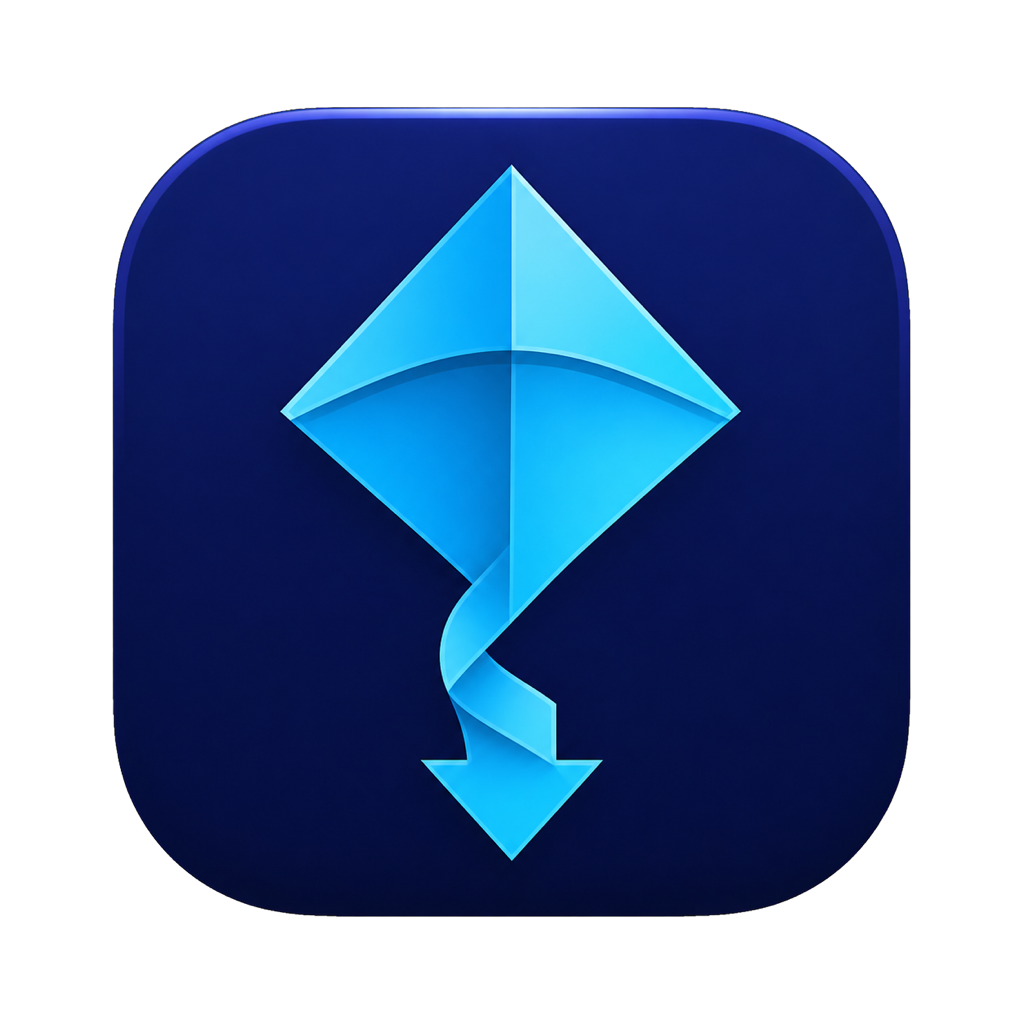
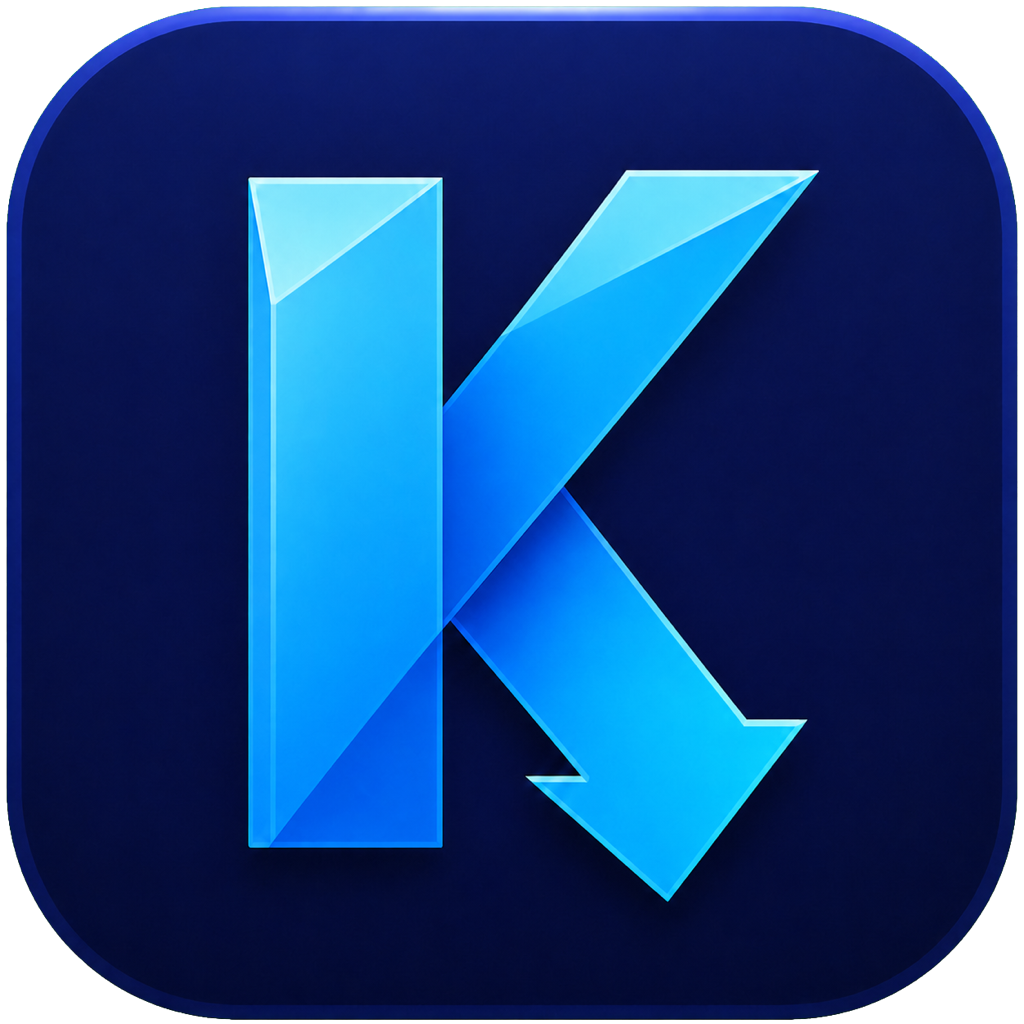
feat: show branded download status in menu bar

diff --git a/Tests/KiteTests/ActiveDownloadSummaryTests.swift b/Tests/KiteTests/ActiveDownloadSummaryTests.swift
@@ -1,0 +1,58 @@
+import Foundation
+import Testing
+@testable import Kite
+
+@Suite("Active download summary")
+struct ActiveDownloadSummaryTests {
+    @Test("Progress is byte-weighted and speed is summed")
+    func summarizesKnownActiveDownloads() {
+        let summary = ActiveDownloadSummary(tasks: [
+            task(id: "small", status: .active, completed: 50, total: 100, speed: 20),
+            task(id: "large", status: .active, completed: 250, total: 900, speed: 30),
+            task(id: "paused", status: .paused, completed: 100, total: 100, speed: 99),
+        ])
+
+        #expect(summary.activeCount == 2)
+        #expect(summary.progress == 0.3)
+        #expect(summary.downloadSpeed == 50)
+    }
+
+    @Test("Unknown task length does not present a misleading percentage")
+    func handlesUnknownLength() {
+        let summary = ActiveDownloadSummary(tasks: [
+            task(id: "known", status: .active, completed: 50, total: 100, speed: 20),
+            task(id: "metadata", status: .active, completed: 0, total: 0, speed: 10),
+        ])
+
+        #expect(summary.activeCount == 2)
+        #expect(summary.progress == nil)
+        #expect(summary.downloadSpeed == 30)
+    }
+
+    @Test("Idle summary has no progress or speed")
+    func handlesIdleState() {
+        let summary = ActiveDownloadSummary(tasks: [])
+
+        #expect(summary.activeCount == 0)
+        #expect(summary.progress == nil)
+        #expect(summary.downloadSpeed == 0)
+    }
+
+    private func task(
+        id: String,
+        status: DownloadStatus,
+        completed: Int64,
+        total: Int64,
+        speed: Int64
+    ) -> DownloadTask {
+        DownloadTask.media(
+            gid: id,
+            status: status,
+            sourceURL: "https://example.com/\(id)",
+            outputPath: "/tmp/\(id)",
+            completedLength: completed,
+            totalLength: total,
+            downloadSpeed: speed
+        )
+    }
+}

diff --git a/Sources/Kite/App/KiteApp.swift b/Sources/Kite/App/KiteApp.swift
@@ -141,12 +141,18 @@ struct KiteApp: App {
         MenuBarExtra {
             MenuBarView(store: downloadStore)
         } label: {
-            Label(
-                downloadStore.displayedActiveTasks.isEmpty ? "Kite" : "↓ \(Formatters.speed(downloadStore.globalStat.downloadSpeed))",
-                systemImage: "arrow.down.circle"
-            )
-            .symbolRenderingMode(.monochrome)
+            let summary = downloadStore.activeDownloadSummary
+            HStack(alignment: .center, spacing: 4) {
+                KiteMenuBarMark()
+                if summary.activeCount == 0 {
+                    Text("Kite")
+                } else {
+                    Text("\(summary.progress.map(Formatters.percent) ?? "—") · \(Formatters.speed(summary.downloadSpeed))")
+                        .monospacedDigit()
+                }
+            }
             .foregroundStyle(.primary)
+            .accessibilityLabel(menuBarAccessibilityLabel(for: summary))
         }
         .menuBarExtraStyle(.menu)
     }
@@ -160,5 +166,11 @@ struct KiteApp: App {
         for url in panel.urls {
             Task { await downloadStore.addTorrent(at: url) }
         }
+    }
+
+    private func menuBarAccessibilityLabel(for summary: ActiveDownloadSummary) -> String {
+        guard summary.activeCount > 0 else { return "Kite, no active downloads" }
+        let progress = summary.progress.map(Formatters.percent) ?? "unknown progress"
+        return "Kite, download progress \(progress), download speed \(Formatters.speed(summary.downloadSpeed))"
     }
 }

diff --git a/Sources/Kite/Views/KiteMenuBarMark.swift b/Sources/Kite/Views/KiteMenuBarMark.swift
@@ -1,0 +1,44 @@
+import SwiftUI
+
+struct KiteMenuBarMark: View {
+    var body: some View {
+        KiteMenuBarMarkShape()
+            .fill(.primary)
+            .frame(width: 14, height: 14)
+            .frame(width: 16, height: 16, alignment: .center)
+            .accessibilityHidden(true)
+    }
+}
+
+struct KiteMenuBarMarkShape: Shape {
+    func path(in rect: CGRect) -> Path {
+        func point(_ x: CGFloat, _ y: CGFloat) -> CGPoint {
+            CGPoint(x: rect.minX + (x * rect.width), y: rect.minY + (y * rect.height))
+        }
+
+        var path = Path()
+
+        path.move(to: point(0.08, 0.06))
+        path.addLine(to: point(0.32, 0.06))
+        path.addLine(to: point(0.32, 0.94))
+        path.addLine(to: point(0.08, 0.94))
+        path.closeSubpath()
+
+        path.move(to: point(0.29, 0.48))
+        path.addLine(to: point(0.68, 0.06))
+        path.addLine(to: point(0.94, 0.06))
+        path.addLine(to: point(0.43, 0.60))
+        path.closeSubpath()
+
+        path.move(to: point(0.35, 0.43))
+        path.addLine(to: point(0.73, 0.78))
+        path.addLine(to: point(0.82, 0.69))
+        path.addLine(to: point(0.94, 0.94))
+        path.addLine(to: point(0.68, 0.85))
+        path.addLine(to: point(0.77, 0.76))
+        path.addLine(to: point(0.42, 0.54))
+        path.closeSubpath()
+
+        return path
+    }
+}

diff --git a/Sources/Kite/Models/ActiveDownloadSummary.swift b/Sources/Kite/Models/ActiveDownloadSummary.swift
@@ -1,0 +1,34 @@
+import Foundation
+
+struct ActiveDownloadSummary: Equatable, Sendable {
+    let activeCount: Int
+    let progress: Double?
+    let downloadSpeed: Int64
+
+    init(tasks: [DownloadTask]) {
+        let activeTasks = tasks.filter { $0.status == .active }
+        activeCount = activeTasks.count
+        downloadSpeed = Self.saturatingSum(activeTasks.map(\.downloadSpeed))
+
+        guard !activeTasks.isEmpty,
+              activeTasks.allSatisfy({ $0.totalLength > 0 }) else {
+            progress = nil
+            return
+        }
+
+        let totalLength = activeTasks.reduce(0.0) { result, task in
+            result + Double(task.totalLength)
+        }
+        let completedLength = activeTasks.reduce(0.0) { result, task in
+            result + Double(min(max(task.completedLength, 0), task.totalLength))
+        }
+        progress = totalLength > 0 ? min(max(completedLength / totalLength, 0), 1) : nil
+    }
+
+    private static func saturatingSum(_ values: [Int64]) -> Int64 {
+        values.reduce(0) { result, value in
+            let (sum, overflow) = result.addingReportingOverflow(max(value, 0))
+            return overflow ? .max : sum
+        }
+    }
+}

diff --git a/Sources/Kite/Views/MenuBarView.swift b/Sources/Kite/Views/MenuBarView.swift
@@ -20,9 +20,11 @@ struct MenuBarView: View {
 
         Divider()
 
-        Text("Download  \(Formatters.speed(store.globalStat.downloadSpeed))")
+        let summary = store.activeDownloadSummary
+        Text("Progress  \(summary.progress.map(Formatters.percent) ?? "—")")
+        Text("Download  \(Formatters.speed(summary.downloadSpeed))")
         Text("Upload  \(Formatters.speed(store.globalStat.uploadSpeed))")
-        Text("Active  \(store.displayedActiveTasks.count)")
+        Text("Active  \(summary.activeCount)")
 
         Divider()
 

diff --git a/Sources/Kite/Stores/DownloadStore.swift b/Sources/Kite/Stores/DownloadStore.swift
@@ -87,6 +87,10 @@ final class DownloadStore {
         activeTasks + mediaTasks.filter { $0.status == .active }
     }
 
+    var activeDownloadSummary: ActiveDownloadSummary {
+        ActiveDownloadSummary(tasks: displayedActiveTasks)
+    }
+
     var visibleTasks: [DownloadTask] {
         let base: [DownloadTask]
         switch section {
